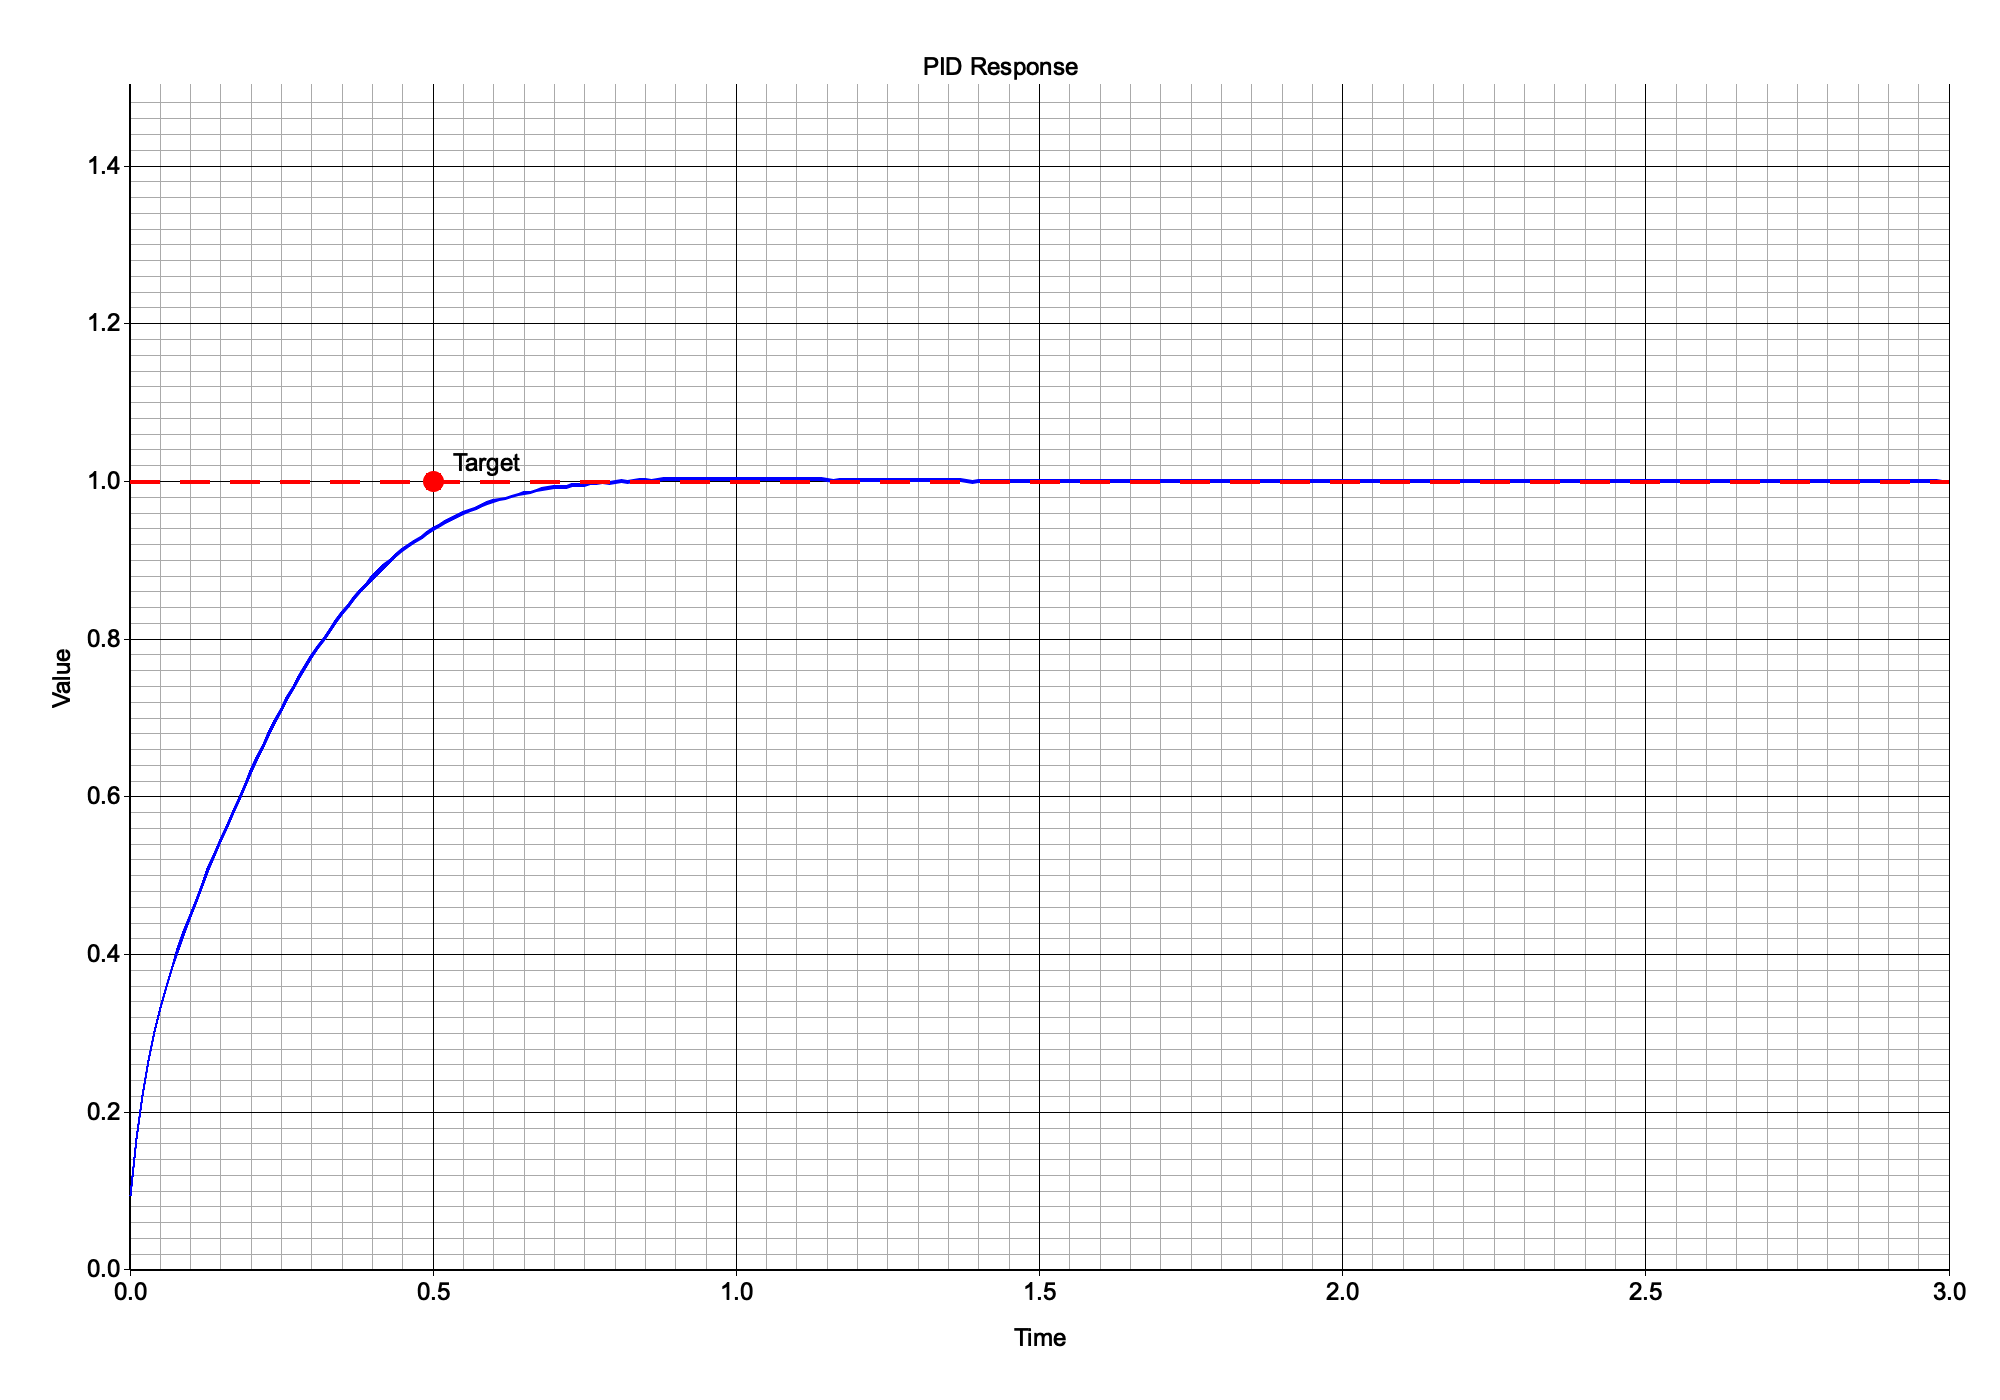
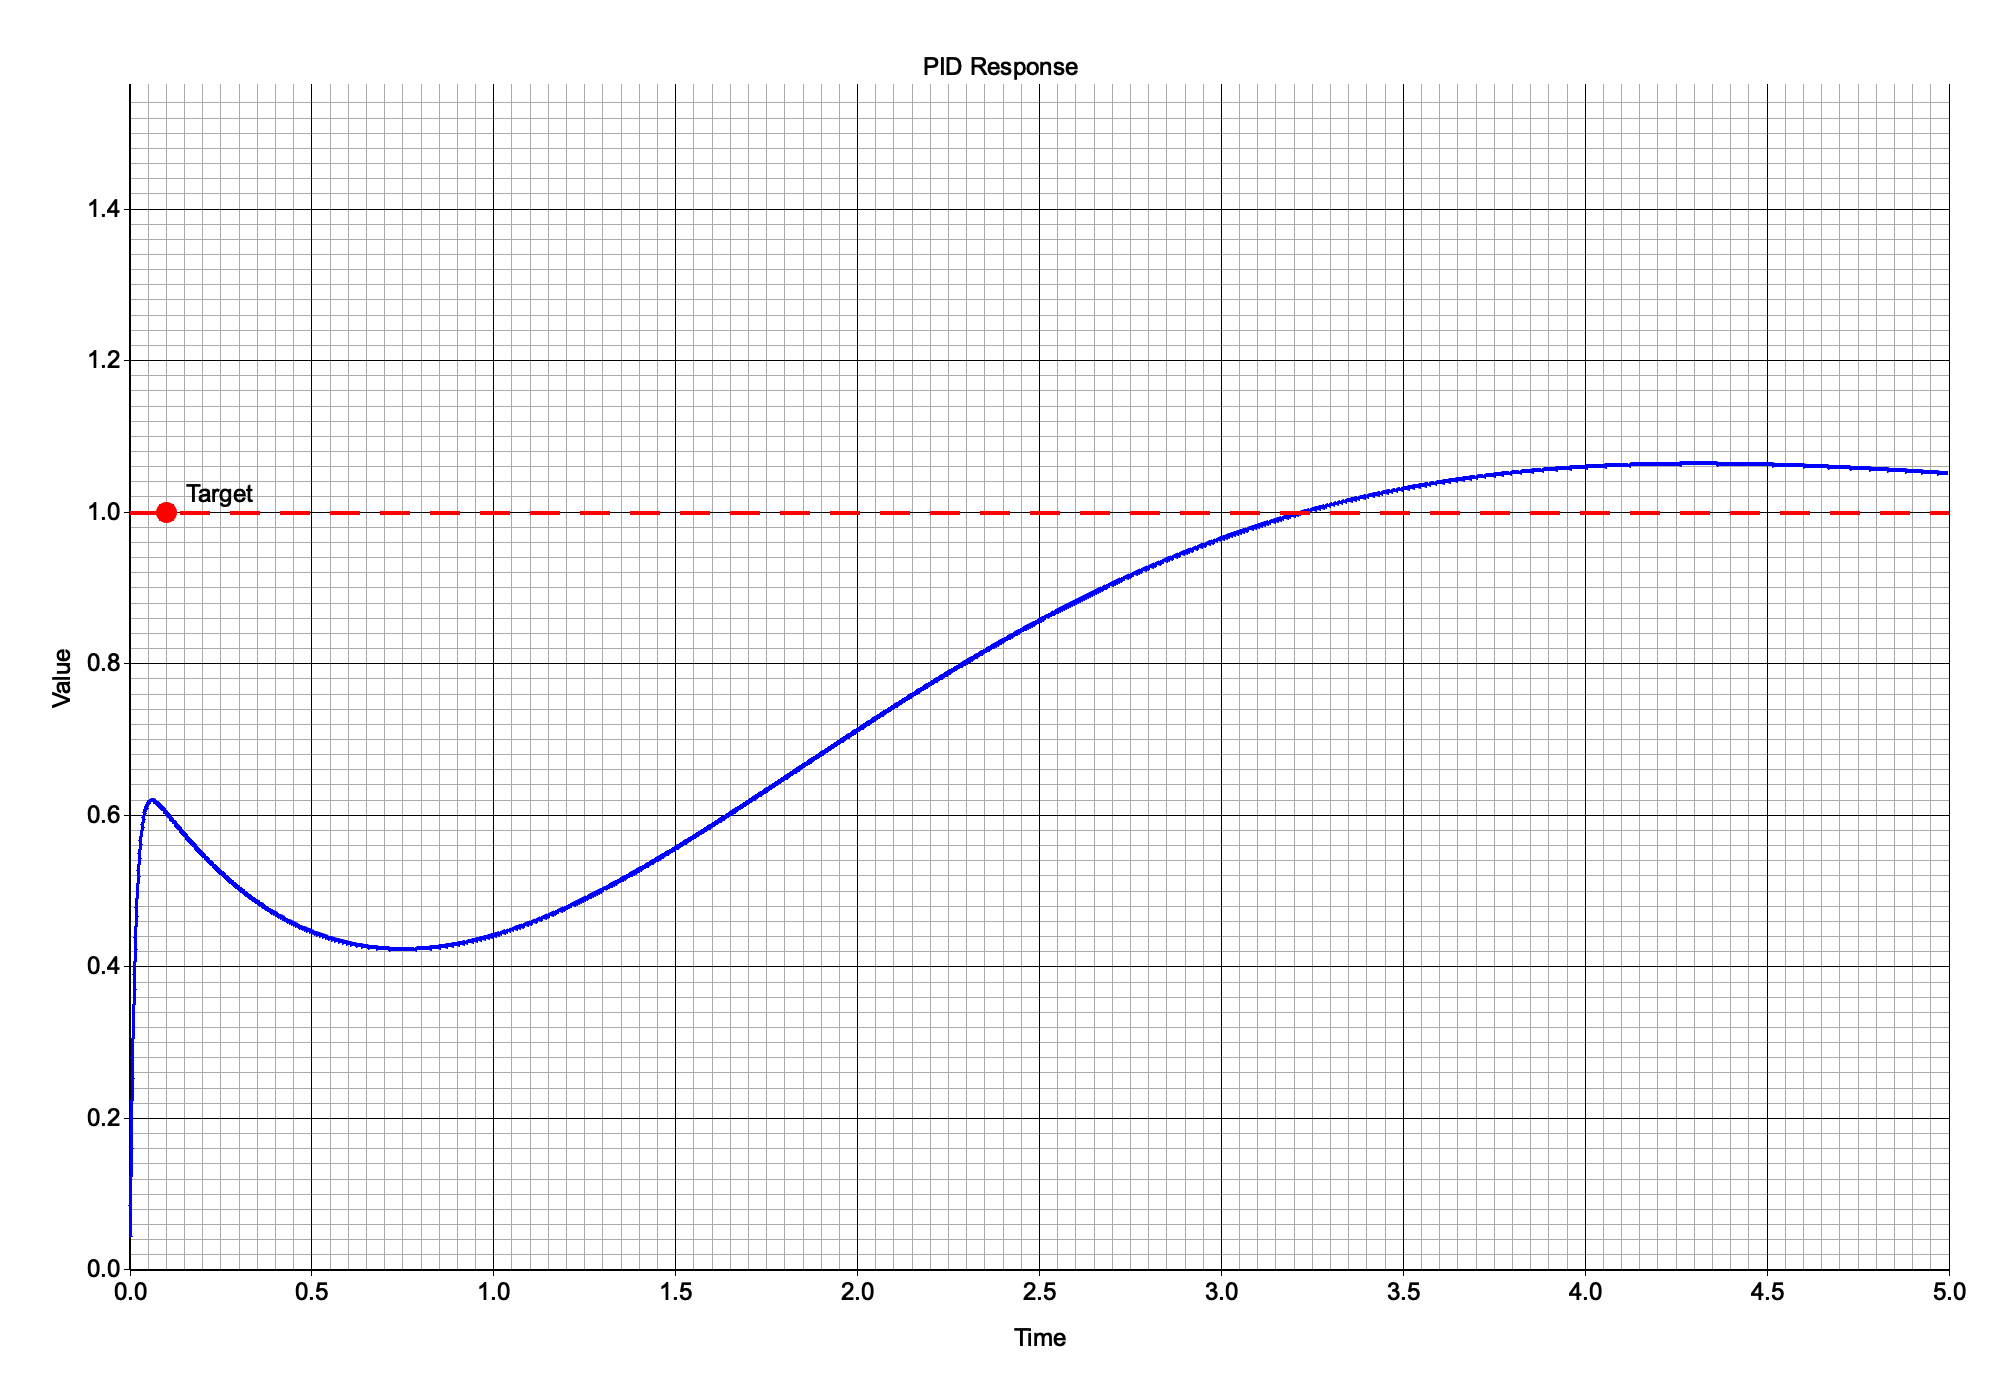
Time Window, Effective Damping were added to UI. Timetrap version was updated to used trap_mem. WIP for damping and inertia tuning.

Changed region(s): [[0.031, 0.0921, 0.992, 0.8907]]

diff --git a/ui/pid-visualizer/src/app/app.component.html b/ui/pid-visualizer/src/app/app.component.html
@@ -4,29 +4,39 @@
   <!-- Remove the submit button if not needed -->
   <form>
     <div>
+      <label for="timeWindow">Time Window Measured (sec):</label>
+      <input type="number" id="timeWindow" name="timeWindow" [(ngModel)]="inputModel.timeWindow" step="0.01"
+        (ngModelChange)="onSettingsChanged()" required>
+    </div>
+    <div>
       <label for="target">Target Value:</label>
       <input type="number" id="target" name="target" [(ngModel)]="inputModel.target" step="0.1"
         (ngModelChange)="onSettingsChanged()" required>
     </div>
     <div>
-      <label for="timeResponse">Time Response:</label>
-      <input type="number" id="timeResponse" name="timeResponse" [(ngModel)]="inputModel.timeResponse" step="0.1"
+      <label for="timeResponse">Time Response (sec):</label>
+      <input type="number" id="timeResponse" name="timeResponse" [(ngModel)]="inputModel.timeResponse" step="0.01"
         (ngModelChange)="onSettingsChanged()" required>
     </div>
     <div>
       <label for="kp">Kp:</label>
       <input type="number" id="kp" name="kp" [(ngModel)]="inputModel.pid.kp" (ngModelChange)="onSettingsChanged()"
-        step="0.1" required>
+        step="0.01" required>
     </div>
     <div>
       <label for="ki">Ki:</label>
       <input type="number" id="ki" name="ki" [(ngModel)]="inputModel.pid.ki" (ngModelChange)="onSettingsChanged()"
-        step="0.1" required>
+        step="0.01" required>
     </div>
     <div>
       <label for="kd">Kd:</label>
       <input type="number" id="kd" name="kd" [(ngModel)]="inputModel.pid.kd" (ngModelChange)="onSettingsChanged()"
-        step="0.001" required>
+        step="0.01" required>
+    </div>
+    <div>
+      <label for="effectiveDamping">Effective Damping:</label>
+      <input type="number" id="effectiveDamping" name="effectiveDamping" [(ngModel)]="inputModel.effectiveDamping"
+        (ngModelChange)="onSettingsChanged()" step="0.0001" required>
     </div>
     <div>
       <label for="droneModel">Drone Model:</label>

diff --git a/ui/pid-visualizer/src/app/app.component.ts b/ui/pid-visualizer/src/app/app.component.ts
@@ -1,4 +1,4 @@
-import { Component, OnInit, AfterViewInit } from '@angular/core';
+import { Component, OnInit, AfterViewInit, OnDestroy } from '@angular/core';
 import { HttpClient } from '@angular/common/http';
 import { FormsModule } from '@angular/forms';
 import { environment } from '../environments/environment';
@@ -13,9 +13,11 @@ interface PIDParams {
 }
 
 interface InputModel {
+  timeWindow: number;
   target: number;
   timeResponse: number;
   pid: PIDParams;
+  effectiveDamping: number;
   droneModel: string;
 }
 
@@ -26,12 +28,15 @@ interface InputModel {
   templateUrl: './app.component.html',
   styleUrls: ['./app.component.scss'],
 })
-export class AppComponent implements OnInit {
+export class AppComponent implements OnInit, OnDestroy {
   inputModel!: InputModel;
   imageUrl = `${environment.apiUrl}/api/image`;
   private updateSubject = new Subject<void>();
 
   constructor(private http: HttpClient) { }
+  ngOnDestroy(): void {
+    this.updateSubject.unsubscribe();
+  }
 
   async ngOnInit(): Promise<void> {
     console.log('ngOnInit called');
@@ -42,7 +47,9 @@ export class AppComponent implements OnInit {
     this.inputModel = {
       target: defaults.target,
       timeResponse: defaults.timeResponse,
+      timeWindow: defaults.timeWindow,
       pid: defaults.pid,
+      effectiveDamping: defaults.effectiveDamping,
       droneModel: defaults.droneModel,
     };
 

diff --git a/src/controllers/web_controller.rs b/src/controllers/web_controller.rs
@@ -7,14 +7,16 @@ use actix_files::NamedFile;
 use actix_web::{web, HttpResponse, Responder};
 use serde::{Deserialize, Serialize};
 use std::fs;
-use timetrap::trap;
+use timetrap::*;
 
 #[derive(Debug, Serialize, Deserialize)]
 #[serde(rename_all = "camelCase")]
 pub struct InputModel {
+    pub time_window: f64,
     pub target: f64,
     pub time_response: f64,
     pub pid: PIDParams,
+    pub effective_damping: f64,
     pub drone_model: String,
 }
 
@@ -27,30 +29,31 @@ pub struct PIDParams {
 }
 
 pub async fn update_input(input: web::Json<InputModel>) -> impl Responder {
-    println!("Received input: {:?}", input);
-    let target = Input::set(input.target, input.time_response);
-    let pid = PID::new(input.pid.kp, input.pid.ki, input.pid.kd);
-    let phx = Physics::cetus_pro(3.0, 0.0007);
+    trap_mem!("update_input", MemUnits::Kb, {
+        let target = Input::set(input.target, input.time_response);
+        let pid = PID::new(input.pid.kp, input.pid.ki, input.pid.kd);
+        let phx = Physics::cetus_pro(input.time_window, input.effective_damping);
 
-    match PIDController::update(target, pid, phx) {
-        Some(_result) => {
-            // Persist the input into a JSON file.
-            let file_path = "./user_defaults.json";
-            trap!("write to user_defaults.json", {
-                match serde_json::to_string(&input.into_inner()) {
-                    Ok(json_str) => {
-                        if let Err(e) = fs::write(file_path, json_str) {
-                            println!("Error writing defaults to file: {}", e);
+        match PIDController::update(target, pid, phx) {
+            Some(_result) => {
+                // Persist the input into a JSON file.
+                let file_path = "./user_defaults.json";
+                trap!("write to user_defaults.json", {
+                    match serde_json::to_string(&input.into_inner()) {
+                        Ok(json_str) => {
+                            if let Err(e) = fs::write(file_path, json_str) {
+                                println!("Error writing defaults to file: {}", e);
+                            }
                         }
+                        Err(e) => println!("Error serializing input: {}", e),
                     }
-                    Err(e) => println!("Error serializing input: {}", e),
-                }
-            });
+                });
 
-            HttpResponse::Ok().json("Success")
+                HttpResponse::Ok().json("Success")
+            }
+            None => HttpResponse::InternalServerError().json("Something went wrong"),
         }
-        None => HttpResponse::InternalServerError().json("Something went wrong"),
-    }
+    })
 }
 
 pub async fn get_image() -> actix_web::Result<NamedFile> {
@@ -74,6 +77,7 @@ pub async fn get_defaults() -> impl Responder {
         let d_pid = PID::default();
         let d_drone = CetusPro;
         let default: InputModel = InputModel {
+            time_window: Physics::default().sim_time,
             target: d_input.target_value,
             time_response: d_input.acceptable_time,
             pid: PIDParams {
@@ -81,6 +85,7 @@ pub async fn get_defaults() -> impl Responder {
                 ki: d_pid.ki,
                 kd: d_pid.kd,
             },
+            effective_damping: 0.0004,
             drone_model: d_drone.to_string(),
         };
         HttpResponse::Ok().json(default)

diff --git a/src/controllers/pid_controller.rs b/src/controllers/pid_controller.rs
@@ -3,7 +3,7 @@ use crate::logic::physics::Physics;
 use crate::logic::pid::PID;
 use crate::logic::pid_processor::PIDProcessor;
 use crate::logic::visualizer::{Visualizer, VisualizerConfig};
-use timetrap::trap;
+use timetrap::*;
 
 pub struct PIDController {}
 impl PIDController {
@@ -21,17 +21,17 @@ impl PIDController {
         let mut pid_processor = PIDProcessor::default()
             .starting_position(0.0)
             .motor_output(0.0)
-            .time_resolution(0.01)
+            .time_resolution(0.001)
             .pid(pid)
             .phx(phx);
 
-        let plot_data: Vec<(f64, f64)>;
+        let mut plot_data: Vec<(f64, f64)> = vec![];
 
         trap!("pid_processor.process()", {
             plot_data = pid_processor.process(&input);
         });
 
-        trap!("plot_response", {
+        trap_mem!("visualizer.plot_response", MemUnits::Kb, {
             Some(visualizer.plot_response(&input, &plot_data, &phx.sim_time))
         })
     }

diff --git a/src/logic/physics.rs b/src/logic/physics.rs
@@ -25,7 +25,7 @@ impl Physics {
     }
 
     pub fn cetus_pro(sim_time: f64, effective_damping: f64) -> Self {
-        let inertia = Self::cetus_real_inertia();
+        let inertia = Self::cetus_real_inertia() * 3 as f64;
         let tau_motor = 0.05; // PID-to-motor
         Self::new(sim_time, tau_motor, inertia, effective_damping)
     }
